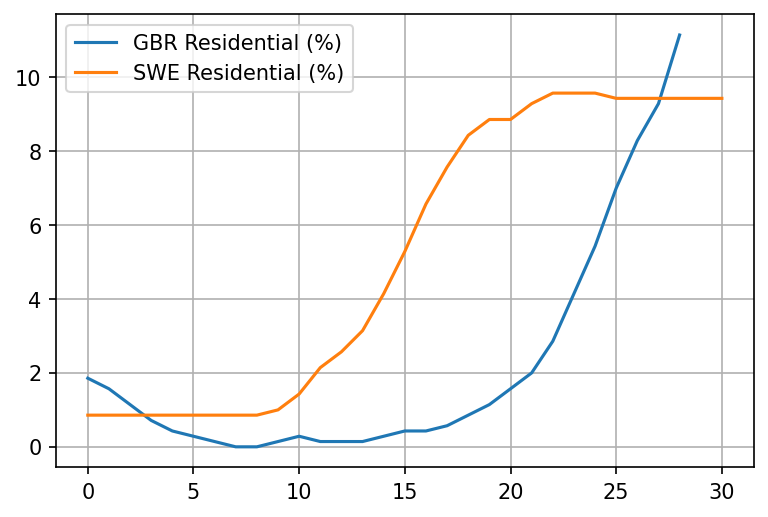
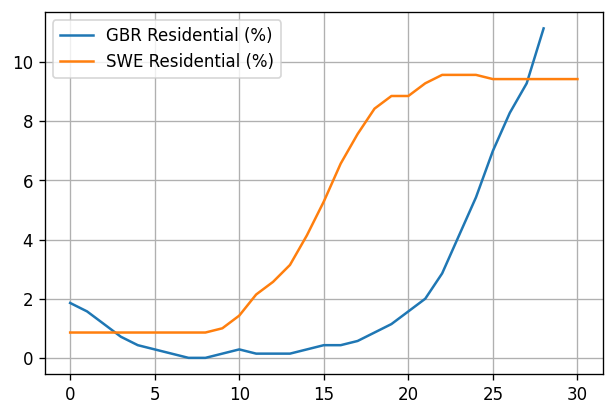
Updates

diff --git a/posts/uk-sweden-growth.html b/posts/uk-sweden-growth.html
@@ -6,7 +6,7 @@ behaving very differently before any lockdown or mass measures were introduced.<
 <span class="hljs-keyword">import</span> matplotlib.pyplot <span class="hljs-keyword">as</span> plt
 <span class="hljs-keyword">from</span> datetime <span class="hljs-keyword">import</span> datetime
 
-plt.rcParams[<span class="hljs-string">'figure.dpi'</span>] = <span class="hljs-number">150</span>
+plt.rcParams[<span class="hljs-string">'figure.dpi'</span>] = <span class="hljs-number">120</span>
 plt.rcParams[<span class="hljs-string">'figure.figsize'</span>] = [<span class="hljs-number">6.0</span>, <span class="hljs-number">4.0</span>]
 dateparse = <span class="hljs-keyword">lambda</span> x: datetime.strptime(x, <span class="hljs-string">'%Y-%m-%d'</span>)
 owid = pd.read_csv(<span class="hljs-string">'https://covid.ourworldindata.org/data/owid-covid-data.csv'</span>, parse_dates=[<span class="hljs-string">'date'</span>], date_parser=dateparse)
@@ -37,17 +37,17 @@ plt = pd.concat([gbr1growth, swe1growth], axis=<span class="hljs-number">1</span
 <p>The mean time from infection to death for patients with fatal outcomes is 21 days. This means that the dates where we observe these rates of growth begin on 23rd February in the UK and around 1st of March in Sweden. Point 10 in the plot is therefore March 2nd in the UK, March 9th in Sweden.</p>
 <p>So what happened between March 2nd and March 8th in the UK, where the rate of growth seemed to have been between 3.0 and 4.0 ?</p>
 <p>And what happened in Sweden?</p>
-<h3>UK: Contact tracing</h3>
+<h1>UK: Contact tracing</h1>
 <p>Contact tracing is a reasonably decent strategy. Assuming you have enough capacity, you should be able to find everyone in contact with the infected person, and also their contacts and so on. It should work reasonably well for most viruses, especially those that have mainly symptomatic spread.</p>
-<p>Unfortunately SARS-COV-2 seems to have had a symptomatic component</p>
-<p>PHE gave up on contact tracing due to being overwhelmed on March 11th. That would be somewhere afterpoint 20. Growth rate still very high, above 2.0</p>
-<h3>Sweden: Mass measures</h3>
+<p>Unfortunately SARS-COV-2 seems to have had an asymptomatic component. The virus quickly entered the community spread phase.</p>
+<p>PHE gave up on contact tracing due to being overwhelmed on March 11th. That would be somewhere afterpoint 20. Growth rate still very high, above 2.0. No measures were in place at that time</p>
+<h1>Sweden: Mass measures</h1>
 <ul>
 <li>Feb 27th: Almega, the largest organization of service companies in Sweden advised employees to stay at home if they visited high risk areas</li>
 <li>March 3rd: The Scandinavian airline SAS stopped all flights to northern Italy</li>
 <li>March 11: The government announced that the qualifying day of sickness ('karensdag') will be temporarily abolished in order to ensure that people feeling slightly ill will stay at home from work. This means that the state will pay sick pay allowance from the first day the employee is absent from work</li>
 </ul>
-<p>But this is all just decrees. Lets see what really happened by looking at google mobility trends</p>
+<p>But these areall just decrees. Lets see what really happened by looking at google mobility trends</p>
 <pre><code class="language-python">dateparse = <span class="hljs-keyword">lambda</span> x: datetime.strptime(x, <span class="hljs-string">'%b %d, %Y'</span>)
 mobility = pd.read_csv(<span class="hljs-string">'https://drive.google.com/u/0/uc?id=1M4GY_K4y6KZtkDtz7i12fhs8LeyUTyaK&amp;export=download'</span>, parse_dates=[<span class="hljs-string">'Date'</span>], date_parser=dateparse)
 </code></pre>
@@ -71,6 +71,7 @@ plot_item(<span class="hljs-string">'Transit Stations (%)'</span>)
 <p><img src="/posts/output_11_1.png" alt="png"></p>
 <p><img src="/posts/output_11_2.png" alt="png"></p>
 <p>Sweden reacted to the pandemic 10 days earlier than the UK did. Perhaps thats how they curbed the spread? Either way, the important point is that the rate of growth makes the biggest difference early on and any quick actions to reduce it are of much greater value than delayed ones.</p>
+<p>Even if Sweden reacting early didn't make any difference, its still wrong to compare UK with Sweden anyway. Clearly the rates of growth were very, very different for some reason. You would not compare the brake difference of two cars by the distance traveled if they were not going at the same speed when they started braking, would you? Similarly, you cannot compare the UK with Sweden - there appears to be a massive difference in the initial rate of growth before any measures were taken.</p>
 </div><a name="_comments"></a><aside class="social"><script src="https://apis.google.com/js/plusone.js"></script><a class="twitter-share-button" href="https://twitter.com/share" data-via="spion">Tweet</a><script>!function(d,s,id){var js,fjs=d.getElementsByTagName(s)[0],p=/^http:/.test(d.location)?'http':'https';if(!d.getElementById(id)){js=d.createElement(s);js.id=id;js.src=p+'://platform.twitter.com/widgets.js';fjs.parentNode.insertBefore(js,fjs);}}(document, 'script', 'twitter-wjs');</script><div class="g-plusone"></div><a class="hn-share-button" href="http://news.ycombinator.com/submit">Vote on HN</a><script>(function(d, t) {
     var g = d.createElement(t),
         s = d.getElementsByTagName(t)[0];

diff --git a/index.html b/index.html
@@ -6,7 +6,7 @@ behaving very differently before any lockdown or mass measures were introduced.<
 <span class="hljs-keyword">import</span> matplotlib.pyplot <span class="hljs-keyword">as</span> plt
 <span class="hljs-keyword">from</span> datetime <span class="hljs-keyword">import</span> datetime
 
-plt.rcParams[<span class="hljs-string">'figure.dpi'</span>] = <span class="hljs-number">150</span>
+plt.rcParams[<span class="hljs-string">'figure.dpi'</span>] = <span class="hljs-number">120</span>
 plt.rcParams[<span class="hljs-string">'figure.figsize'</span>] = [<span class="hljs-number">6.0</span>, <span class="hljs-number">4.0</span>]
 dateparse = <span class="hljs-keyword">lambda</span> x: datetime.strptime(x, <span class="hljs-string">'%Y-%m-%d'</span>)
 owid = pd.read_csv(<span class="hljs-string">'https://covid.ourworldindata.org/data/owid-covid-data.csv'</span>, parse_dates=[<span class="hljs-string">'date'</span>], date_parser=dateparse)
@@ -37,17 +37,17 @@ plt = pd.concat([gbr1growth, swe1growth], axis=<span class="hljs-number">1</span
 <p>The mean time from infection to death for patients with fatal outcomes is 21 days. This means that the dates where we observe these rates of growth begin on 23rd February in the UK and around 1st of March in Sweden. Point 10 in the plot is therefore March 2nd in the UK, March 9th in Sweden.</p>
 <p>So what happened between March 2nd and March 8th in the UK, where the rate of growth seemed to have been between 3.0 and 4.0 ?</p>
 <p>And what happened in Sweden?</p>
-<h3>UK: Contact tracing</h3>
+<h1>UK: Contact tracing</h1>
 <p>Contact tracing is a reasonably decent strategy. Assuming you have enough capacity, you should be able to find everyone in contact with the infected person, and also their contacts and so on. It should work reasonably well for most viruses, especially those that have mainly symptomatic spread.</p>
-<p>Unfortunately SARS-COV-2 seems to have had a symptomatic component</p>
-<p>PHE gave up on contact tracing due to being overwhelmed on March 11th. That would be somewhere afterpoint 20. Growth rate still very high, above 2.0</p>
-<h3>Sweden: Mass measures</h3>
+<p>Unfortunately SARS-COV-2 seems to have had an asymptomatic component. The virus quickly entered the community spread phase.</p>
+<p>PHE gave up on contact tracing due to being overwhelmed on March 11th. That would be somewhere afterpoint 20. Growth rate still very high, above 2.0. No measures were in place at that time</p>
+<h1>Sweden: Mass measures</h1>
 <ul>
 <li>Feb 27th: Almega, the largest organization of service companies in Sweden advised employees to stay at home if they visited high risk areas</li>
 <li>March 3rd: The Scandinavian airline SAS stopped all flights to northern Italy</li>
 <li>March 11: The government announced that the qualifying day of sickness ('karensdag') will be temporarily abolished in order to ensure that people feeling slightly ill will stay at home from work. This means that the state will pay sick pay allowance from the first day the employee is absent from work</li>
 </ul>
-<p>But this is all just decrees. Lets see what really happened by looking at google mobility trends</p>
+<p>But these areall just decrees. Lets see what really happened by looking at google mobility trends</p>
 <pre><code class="language-python">dateparse = <span class="hljs-keyword">lambda</span> x: datetime.strptime(x, <span class="hljs-string">'%b %d, %Y'</span>)
 mobility = pd.read_csv(<span class="hljs-string">'https://drive.google.com/u/0/uc?id=1M4GY_K4y6KZtkDtz7i12fhs8LeyUTyaK&amp;export=download'</span>, parse_dates=[<span class="hljs-string">'Date'</span>], date_parser=dateparse)
 </code></pre>
@@ -71,6 +71,7 @@ plot_item(<span class="hljs-string">'Transit Stations (%)'</span>)
 <p><img src="/posts/output_11_1.png" alt="png"></p>
 <p><img src="/posts/output_11_2.png" alt="png"></p>
 <p>Sweden reacted to the pandemic 10 days earlier than the UK did. Perhaps thats how they curbed the spread? Either way, the important point is that the rate of growth makes the biggest difference early on and any quick actions to reduce it are of much greater value than delayed ones.</p>
+<p>Even if Sweden reacting early didn't make any difference, its still wrong to compare UK with Sweden anyway. Clearly the rates of growth were very, very different for some reason. You would not compare the brake difference of two cars by the distance traveled if they were not going at the same speed when they started braking, would you? Similarly, you cannot compare the UK with Sweden - there appears to be a massive difference in the initial rate of growth before any measures were taken.</p>
 </div><div class="comments"><hr/><a href="posts/uk-sweden-growth.html#_comments">comment or share</a></div></article><article class="post"><h1><a href="posts/machine-learning-ethics.html">Machine learning ethics</a></h1><div class="date">Tue Dec 19 2017</div><div class="content"><p>Today I found and watched one of the most important videos on machine learning published this year</p>
 <blockquote>
 <p>We're building a dystopia just to make people click on ads
